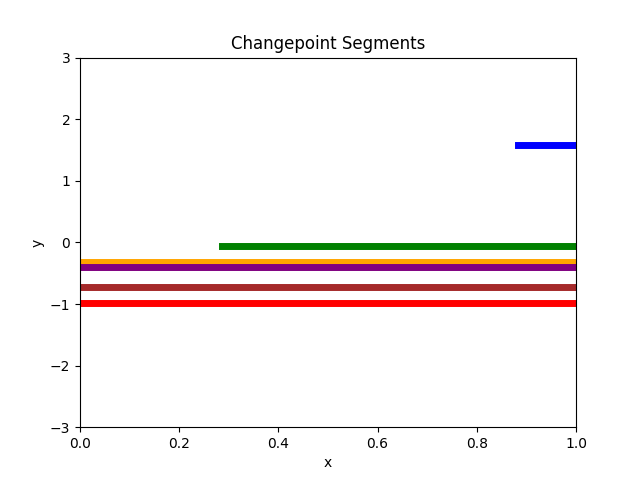
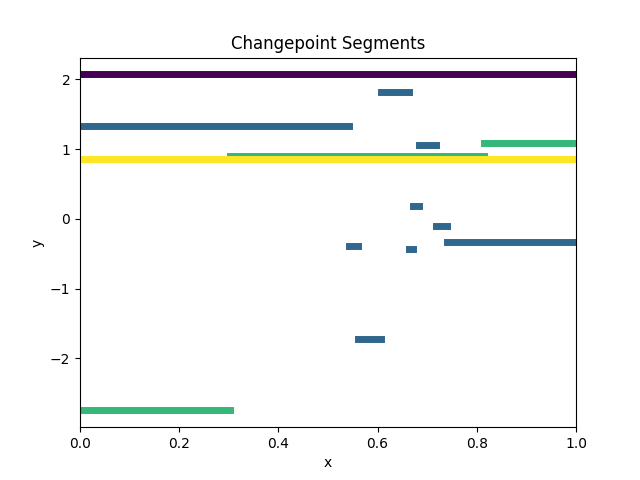
Refactor changepoint model testing: rename sampling function, add segment rendering, and update visualization with new color mapping.

diff --git a/tests/test_changepoint_model.py b/tests/test_changepoint_model.py
@@ -9,10 +9,12 @@ from functools import partial
 import jax
 from jax import jit, vmap
 import jax.numpy as jnp
-from genjax import beta, flip, gen, scan, normal, Trace  # type: ignore
+from genjax import beta, flip, gen, scan, normal, Trace
 from jaxtyping import Array, Float, Bool, Integer, PRNGKeyArray
 
 from matplotlib import pyplot as plt
+from matplotlib.axes import Axes
+from matplotlib import cm
 
 MAX_DEPTH = 5
 MAX_NODES = 2 ** (MAX_DEPTH + 1) - 1
@@ -122,37 +124,8 @@ def binary_tree(buffer: NodeBuffer, idx: int) -> tuple[NodeBuffer, int]:
 
 @jit
 @partial(vmap, in_axes=(0, None))
-def sample_binary_tree(key: PRNGKeyArray, buffer: NodeBuffer) -> Trace:
+def binary_tree_simulate(key: PRNGKeyArray, buffer: NodeBuffer) -> Trace:
     return binary_tree.simulate(key, args=(buffer, buffer.idx))
-
-
-def test_changepoint_model():
-    colors = ["red", "blue", "green", "orange"]
-    N = len(colors)
-
-    trace: Trace = sample_binary_tree(
-        jax.random.split(jax.random.PRNGKey(42), N),
-        NodeBuffer(
-            lower=jnp.zeros([MAX_NODES]).at[0].set(0.0),
-            upper=jnp.zeros([MAX_NODES]).at[0].set(1.0),
-            values=jnp.zeros([MAX_NODES]),
-        ),
-    )
-
-    buffer, idx = trace.retval
-
-    fig, ax = plt.subplots(1, 1)
-    plt.title("Changepoint Segments")
-    plt.xlabel("x")
-    plt.ylabel("y")
-    plt.xlim(0, 1)
-
-    for i in range(N):
-
-        tree = tree_unflatten(buffer, i)
-        render_node(ax, tree, colors[i])
-
-    fig.savefig("test_changepoint_model.png")
 
 
 # cpu-side, recursive tree builder
@@ -172,7 +145,7 @@ def tree_unflatten(tree_buffer: NodeBuffer, j: int, idx: int = 0) -> Node:
         )
 
 
-def render_node(ax: plt.Axes, node: Node, color: str) -> None:
+def render_node(ax: Axes, node: Node, color: str) -> None:
     match node:
         case LeafNode():
             ax.plot(
@@ -187,3 +160,55 @@ def render_node(ax: plt.Axes, node: Node, color: str) -> None:
 
         case _:
             raise ValueError(f"Unknown node type: {type(node)}")
+
+
+def render_segments(trace: Trace) -> None:
+    buffer, idx = trace.get_retval()
+    N, MAX_NODES = buffer.values.shape
+
+    fig, ax = plt.subplots(1, 1)
+    plt.title("Changepoint Segments")
+    plt.xlabel("x")
+    plt.ylabel("y")
+    plt.xlim(0, 1)
+
+    rgba_colors = cm.get_cmap("viridis")(jnp.linspace(0, 1, N).tolist())
+    colors = [
+        f"#{int(r*255):02x}{int(g*255):02x}{int(b*255):02x}"
+        for r, g, b, a in rgba_colors
+    ]
+
+    for i in range(N):
+
+        tree = tree_unflatten(buffer, i)
+        render_node(ax, tree, colors[i])
+
+    fig.savefig("test_changepoint_model.png")
+
+
+def get_value_at(x: float, node: Node) -> float:
+    match node:
+        case LeafNode():
+            return node.value
+        case InternalNode():
+            if x < node.interval.lower or x >= node.interval.upper:
+                raise ValueError(f"x={x} is out of bounds for interval {node.interval}")
+            if x < (node.interval.lower + node.interval.upper) / 2:
+                return get_value_at(x, node.left)
+            else:
+                return get_value_at(x, node.right)
+        case _:
+            raise ValueError(f"Unknown node type: {type(node)}")
+
+
+def test_changepoint_model(n_samples: int = 4, seed: int = 42) -> None:
+
+    trace: Trace = binary_tree_simulate(
+        jax.random.split(jax.random.PRNGKey(seed), n_samples),
+        NodeBuffer(
+            lower=jnp.zeros([MAX_NODES]).at[0].set(0.0),
+            upper=jnp.zeros([MAX_NODES]).at[0].set(1.0),
+            values=jnp.zeros([MAX_NODES]),
+        ),
+    )
+    render_segments(trace)
